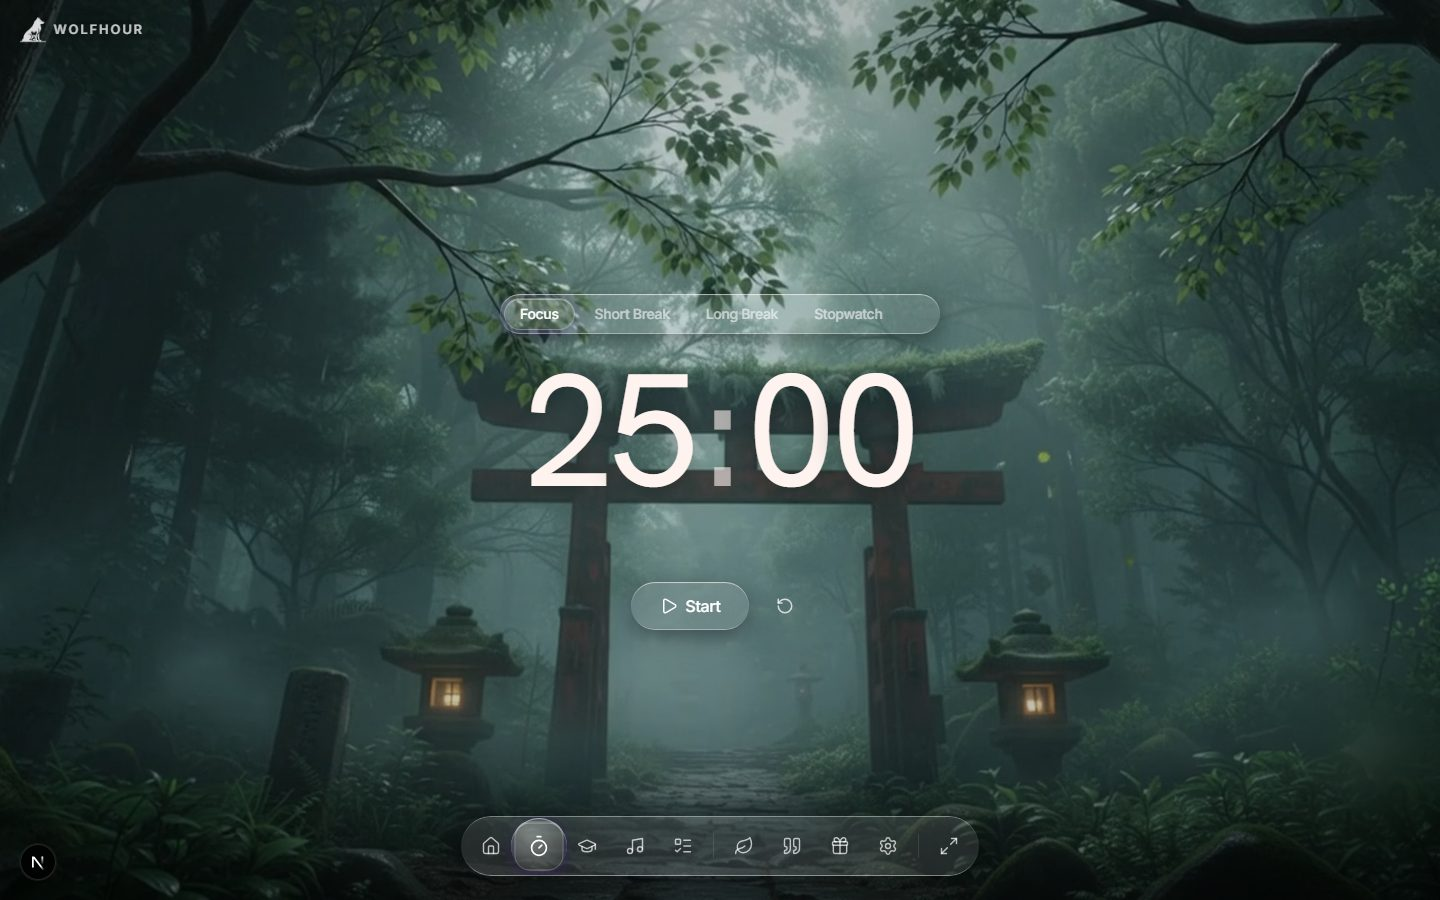
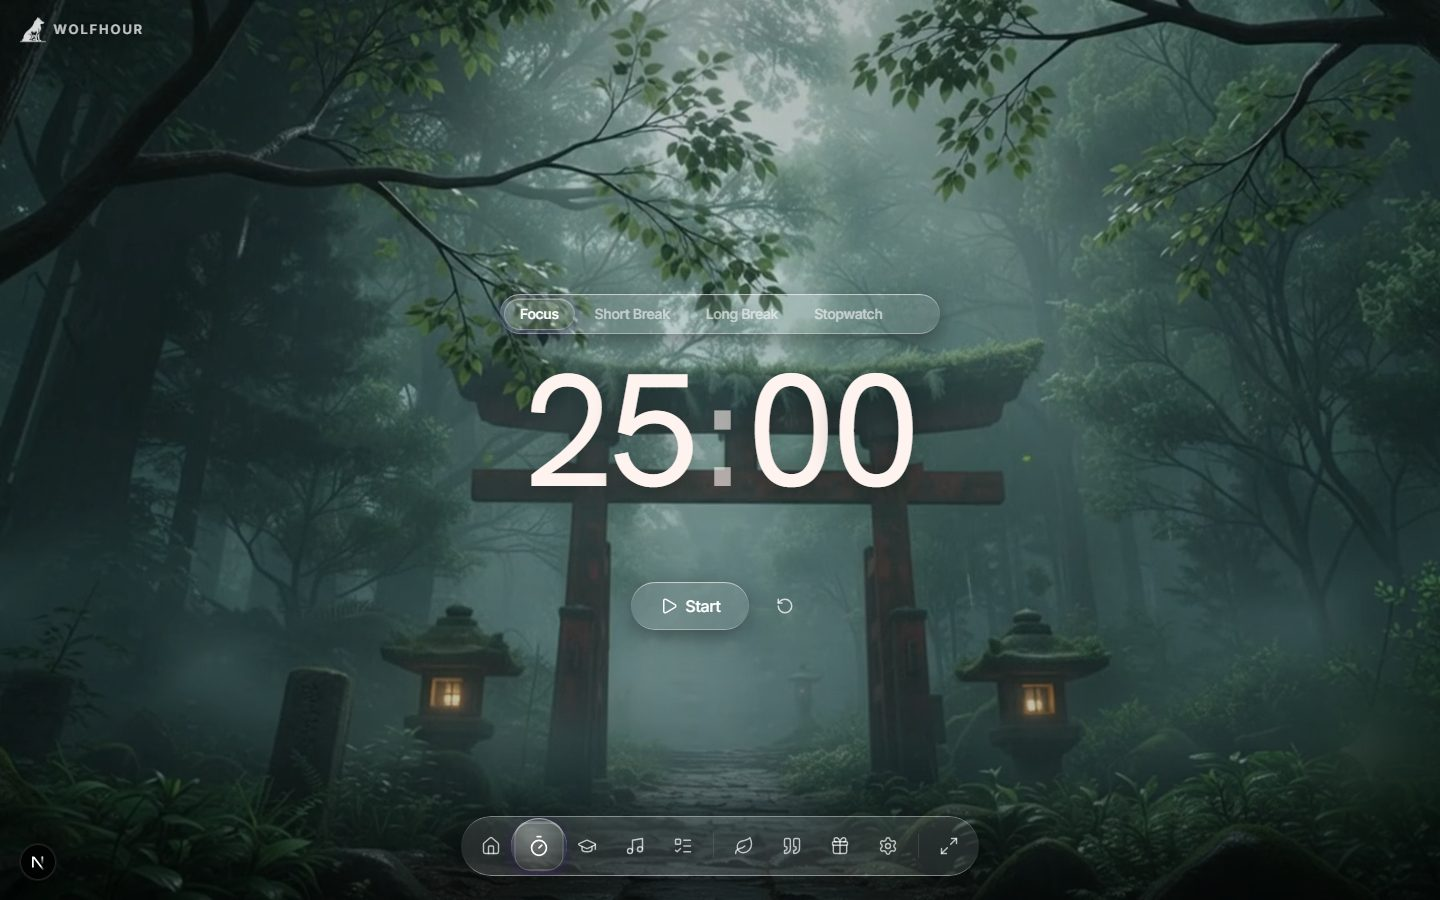
Wave 2: study-sounds page — real sound inventory, mixer screenshot, realistic seed data
- study-sounds: 'What's in the mixer' section listing all 22 sounds across 5
  groups, verified against src/lib/sounds.ts (all synth except train.mp3);
  mixer screenshot added
- capture script: seed weights raised to ~40h/week so analytics screenshot
  shows believable exam-prep numbers
- recaptured all three showcase screenshots with new seed

diff --git a/src/app/(content)/study-sounds/page.tsx b/src/app/(content)/study-sounds/page.tsx
@@ -1,4 +1,5 @@
 import type { Metadata } from "next";
+import Image from "next/image";
 import Link from "next/link";
 
 export const metadata: Metadata = {
@@ -20,6 +21,26 @@ export default function StudySoundsPage() {
         why rain works and your favourite playlist often doesn&rsquo;t: lyrics
         and hooks ask for attention; weather never does.
       </p>
+
+      <h2>What&rsquo;s in the mixer</h2>
+      <p>
+        Wolfhour ships 22 sounds across five groups — Nature (rain, ocean,
+        wind, stream, thunder, forest, birds, night), Places (fireplace,
+        café, keyboard, train), Instrumental (warm pad, deep drone, chimes,
+        dream piano), Lo-Fi (vinyl, tape hiss, lo-fi keys) and Noise (white,
+        pink, brown). Nearly all are synthesised live in your browser rather
+        than played from a looped file — so there&rsquo;s no loop seam to
+        catch your ear at minute nine, and no audio files to download before
+        focus starts.
+      </p>
+      <Image
+        src="/showcase/study-sounds-mixer.jpg"
+        alt="The Wolfhour soundscape mixer — layered sounds with independent volume sliders over a live scene"
+        width={1440}
+        height={900}
+        className="my-4 rounded-xl border border-white/10 shadow-xl"
+        priority
+      />
 
       <h2>What actually works, and when</h2>
       <ul>